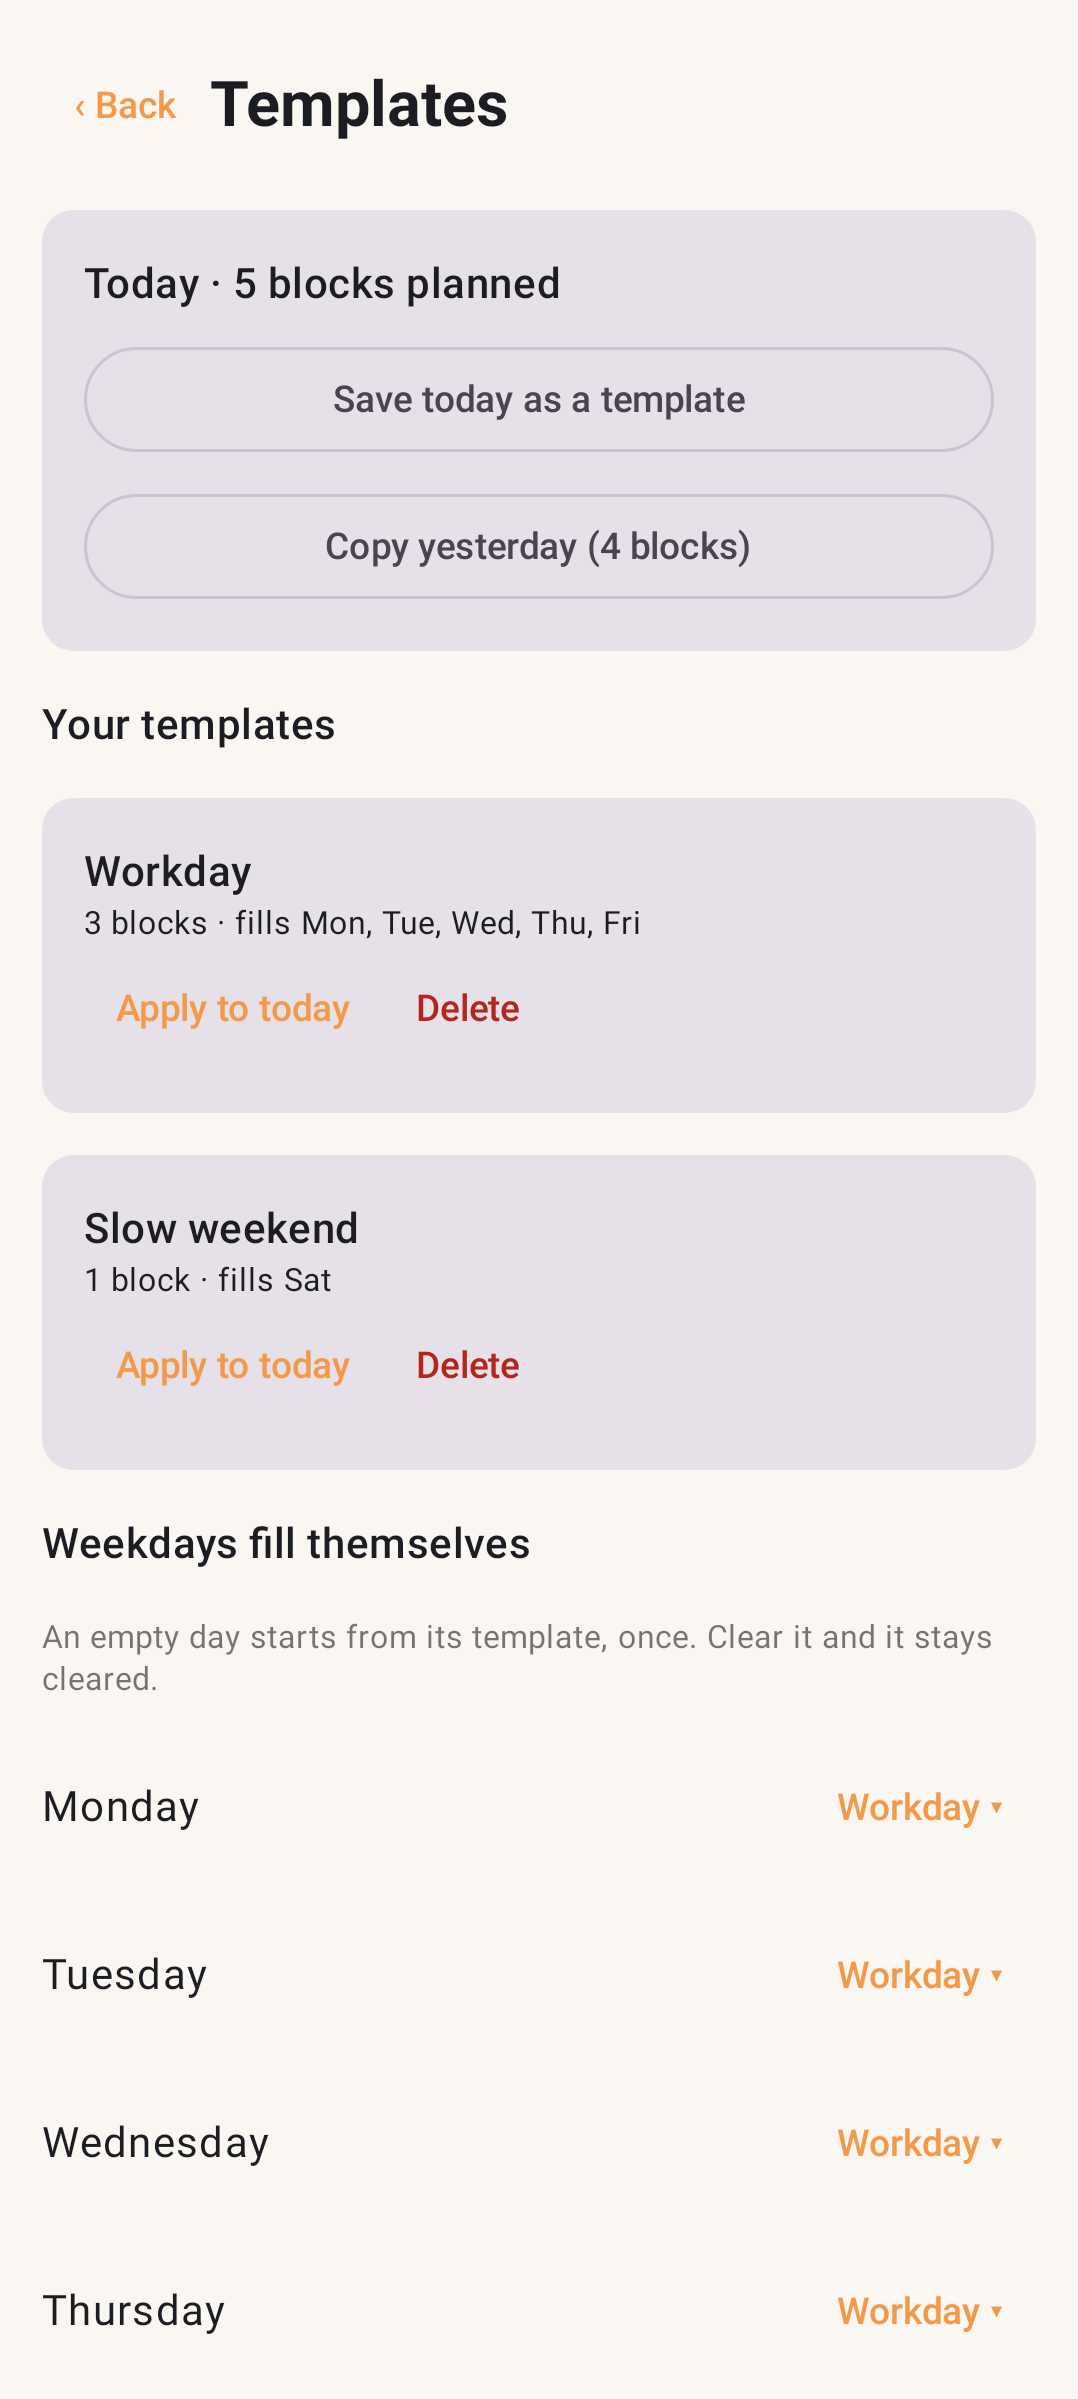
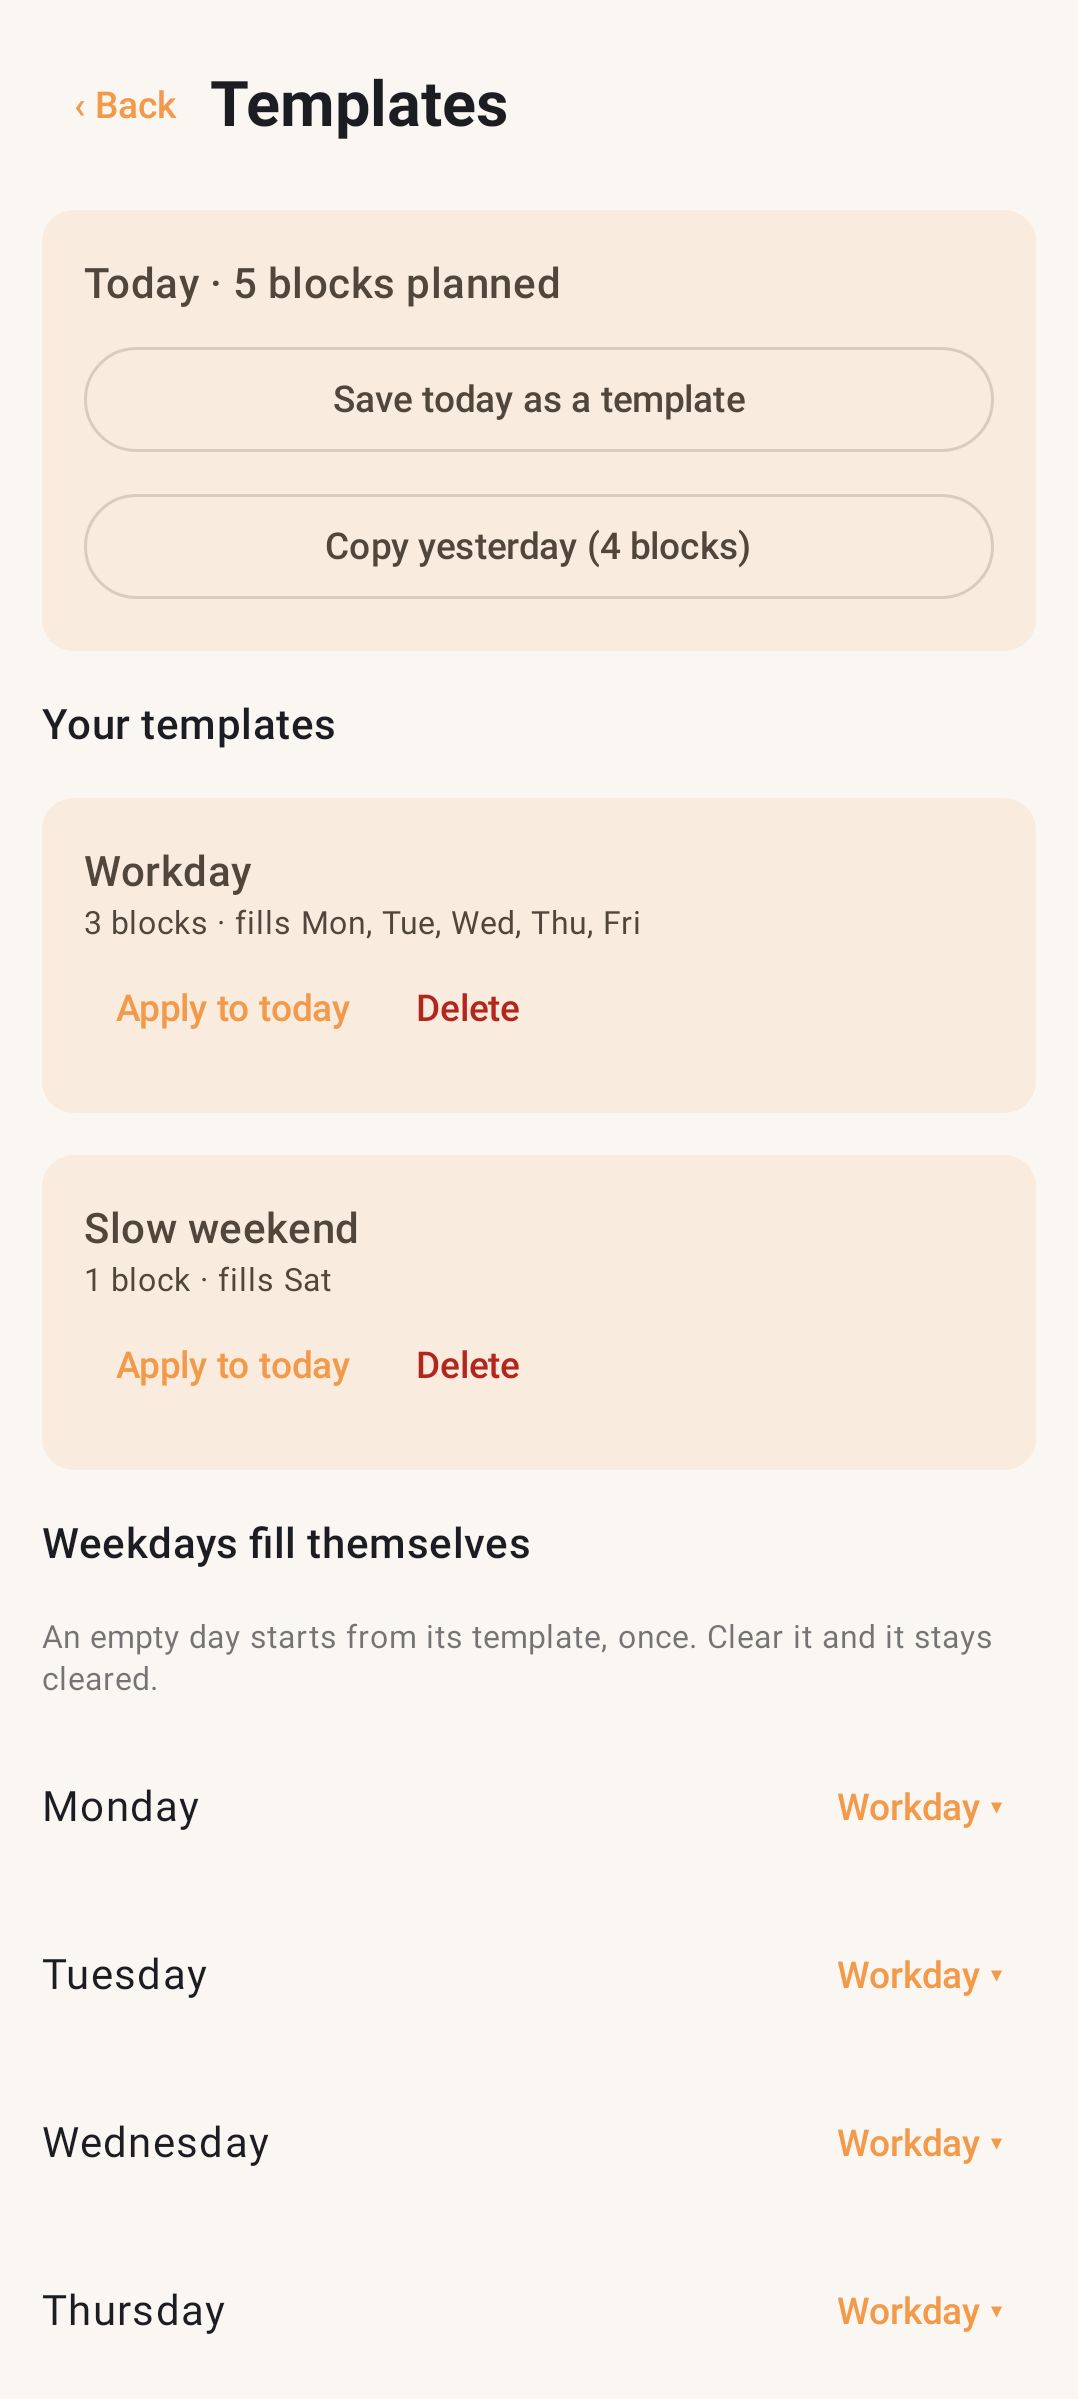
Theme: no more Material lavender in DayBlocks' colours
The first screenshot tests showed it straight away: Today's "Add block" button was Material's
baseline lavender, and so were the template cards. The colour schemes named six roles, and
every role a component reads by default fell through to the baseline — primaryContainer for the
button, surfaceContainerHighest for a filled Card, secondaryContainer for a selected chip,
surfaceContainerHigh for dialogs, outline for outlined buttons and fields.

Both schemes now name all of them. The containers are Sunrise mixed with Paper (or with black,
in dark), the surface containers step up warmly from Paper, and every text colour on them reads
at 7:1 or better: 8.9 and 7.3 for the button's label, 7.9 and 7.6 for text on the cards.

The screenshots did their job in the other direction too: 13 of the 15 failed verification until
redrawn, Stats alone unchanged because it uses nothing but primary and the plain surfaces. The
redrawn ones are in this commit.

diff --git a/core/designsystem/src/commonMain/kotlin/io/github/meko123456/dayblocks/core/designsystem/Theme.kt b/core/designsystem/src/commonMain/kotlin/io/github/meko123456/dayblocks/core/designsystem/Theme.kt
@@ -13,22 +13,55 @@ private val Sunrise = Color(0xFFF2994A)
 private val Ink = Color(0xFF1B1D22)
 private val Paper = Color(0xFFFAF7F2)
 
+/*
+ * Every role a Material component reads by default is named here, not only the six the screens
+ * ask for by name. The rest used to fall through to Material's baseline, which is lavender: the
+ * first screenshot tests drew Today's "Add block" button (primaryContainer) and the template cards
+ * (surfaceContainerHighest) in it. The containers are Sunrise and Paper mixed, the surfaces warm
+ * steps up from Paper, and every text colour on them reads at 7:1 or better in both themes.
+ */
 private val LightScheme = lightColorScheme(
     primary = Sunrise,
     onPrimary = Color.White,
+    primaryContainer = Color(0xFFFBE0C9),
+    onPrimaryContainer = Color(0xFF523419),
+    secondaryContainer = Color(0xFFF9E8D7),
+    onSecondaryContainer = Color(0xFF3A2A1C),
     background = Paper,
     onBackground = Ink,
     surface = Color.White,
     onSurface = Ink,
+    surfaceVariant = Color(0xFFF9ECDE),
+    onSurfaceVariant = Color(0xFF51463C),
+    surfaceContainerLowest = Color.White,
+    surfaceContainerLow = Color(0xFFFAF4ED),
+    surfaceContainer = Color(0xFFFAF1E8),
+    surfaceContainerHigh = Color(0xFFF9EFE3),
+    surfaceContainerHighest = Color(0xFFF9ECDE),
+    outline = Color(0xFF85776A),
+    outlineVariant = Color(0xFFD8CCBE),
 )
 
 private val DarkScheme = darkColorScheme(
     primary = Sunrise,
     onPrimary = Ink,
+    primaryContainer = Color(0xFF66401F),
+    onPrimaryContainer = Color(0xFFFBE2CC),
+    secondaryContainer = Color(0xFF46362A),
+    onSecondaryContainer = Color(0xFFF6E6D6),
     background = Ink,
     onBackground = Paper,
     surface = Color(0xFF24262C),
     onSurface = Paper,
+    surfaceVariant = Color(0xFF3A3637),
+    onSurfaceVariant = Color(0xFFD9CDBF),
+    surfaceContainerLowest = Color(0xFF15171B),
+    surfaceContainerLow = Color(0xFF1F2126),
+    surfaceContainer = Color(0xFF24262C),
+    surfaceContainerHigh = Color(0xFF2C2B2D),
+    surfaceContainerHighest = Color(0xFF383537),
+    outline = Color(0xFFA08F7E),
+    outlineVariant = Color(0xFF4E4439),
 )
 
 /**
